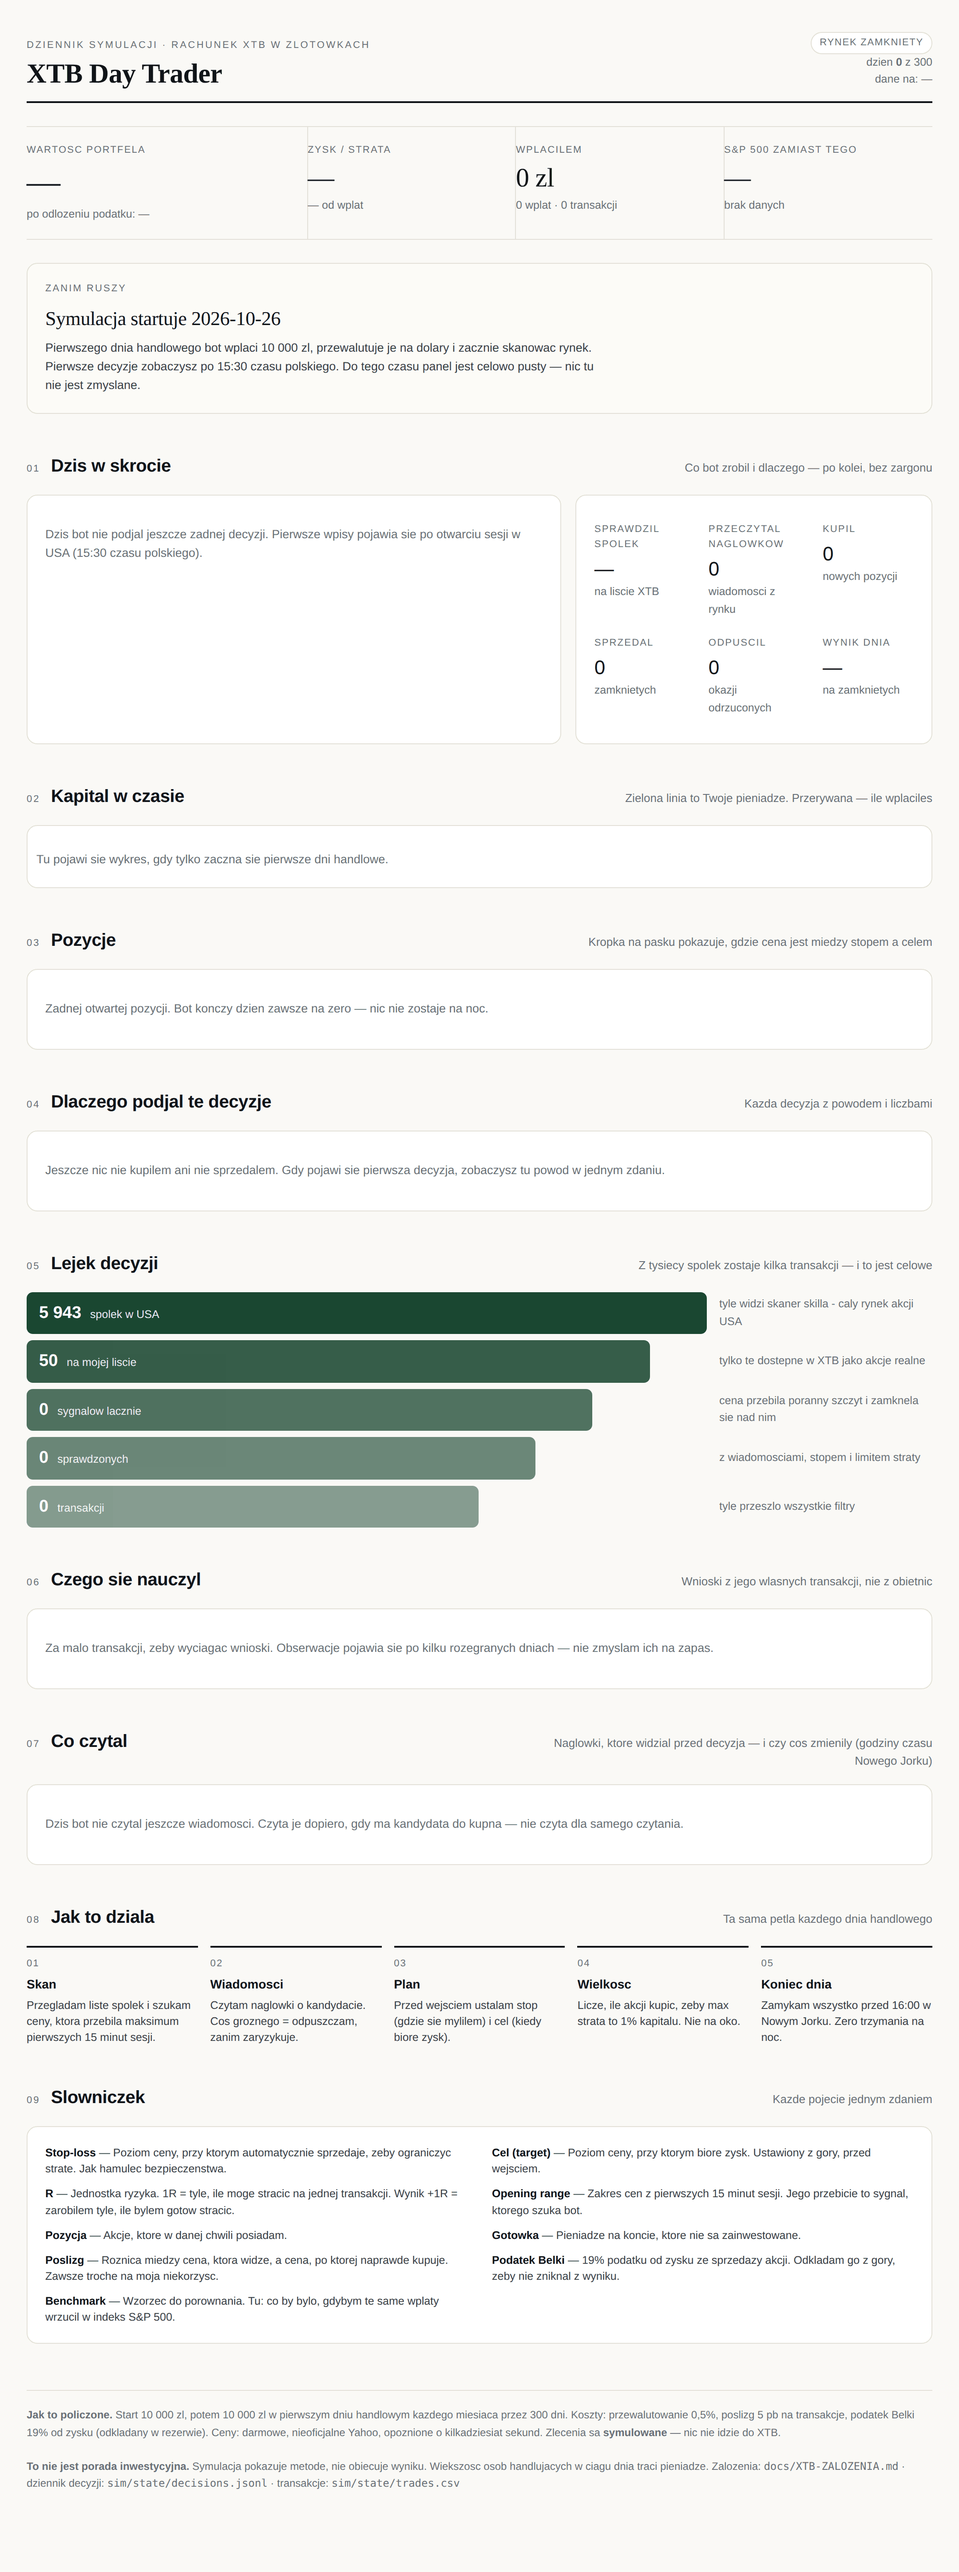
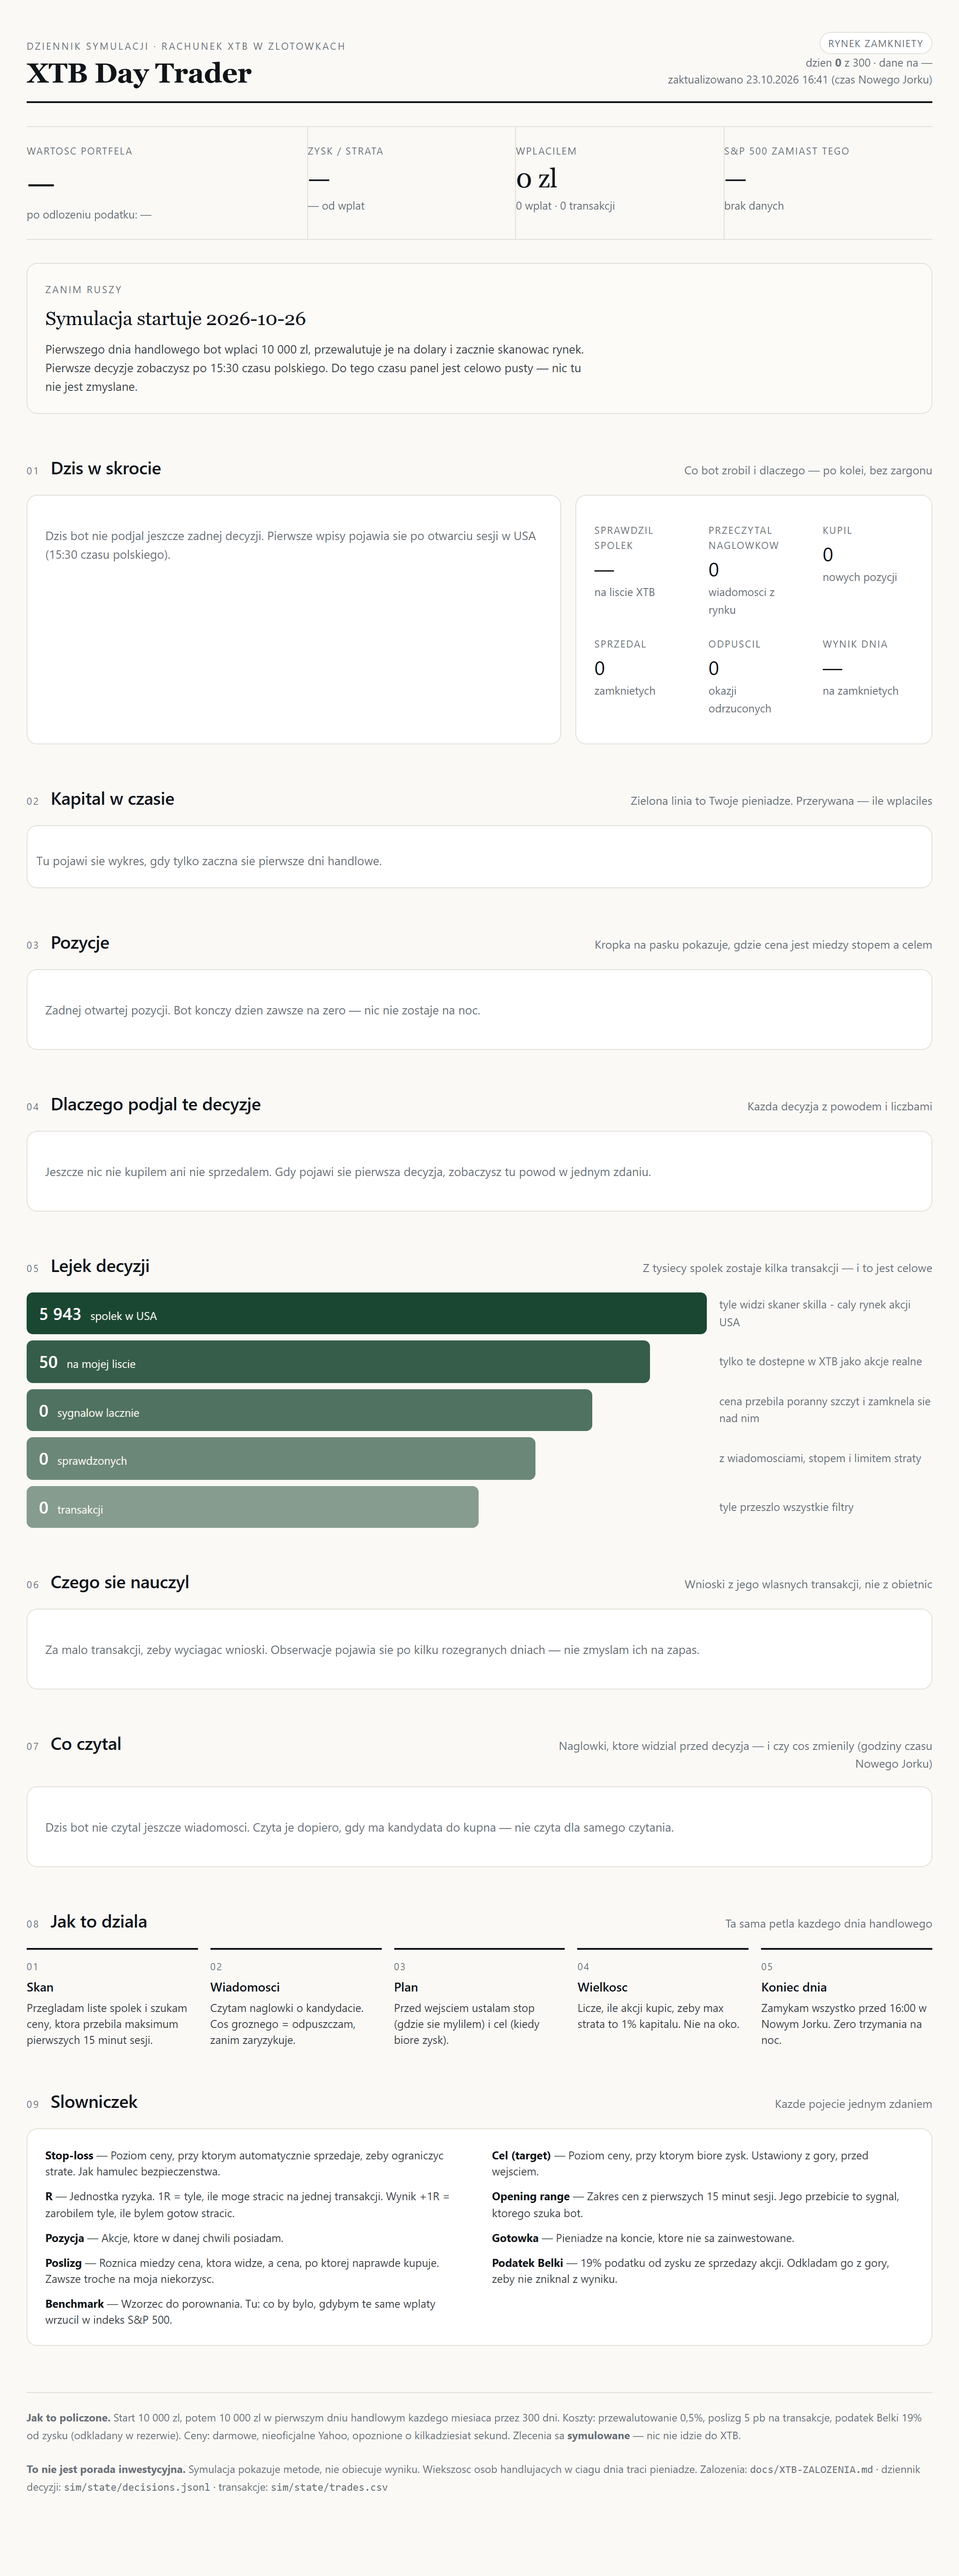
Panel: data ostatniej aktualizacji w naglowku

diff --git a/docs/index.html b/docs/index.html
@@ -158,8 +158,8 @@ footer{margin-top:52px;border-top:1px solid var(--line);padding-top:18px;
   </div>
   <div class="right">
     <span class="pill shut">rynek zamkniety</span><br>
-    dzien <b>0</b> z 300<br>
-    dane na: —
+    dzien <b>0</b> z 300 &middot; dane na —<br>
+    zaktualizowano 23.10.2026 16:41 (czas Nowego Jorku)
   </div>
 </div><div class="kpis">
   <div class="kpi">

diff --git a/sim/dashboard.py b/sim/dashboard.py
@@ -15,10 +15,10 @@ from datetime import datetime
 
 if __package__ in (None, ""):
     sys.path.insert(0, os.path.dirname(os.path.dirname(os.path.abspath(__file__))))
-    from sim import insights, market, news, plain, store, ui
+    from sim import insights, market, news, plain, session as ses, store, ui
     from sim.ui import esc, num, pct, pln, usd
 else:
-    from . import insights, market, news, plain, store, ui
+    from . import insights, market, news, plain, session as ses, store, ui
     from .ui import esc, num, pct, pln, usd
 
 # ------------------------------------------------------------------ style
@@ -205,7 +205,7 @@ def _et_hhmm(iso) -> str:
     """ISO UTC z feedu -> godzina w Nowym Jorku (tak jak reszta panelu)."""
     try:
         from datetime import timezone
-        from . import session as ses
+
         dt = datetime.fromisoformat(str(iso).replace("Z", "+00:00"))
         if dt.tzinfo is None:
             dt = dt.replace(tzinfo=timezone.utc)
@@ -223,18 +223,14 @@ def _price(sym: str) -> float | None:
 
 # ------------------------------------------------------------------ sekcje
 def _masthead(sim: dict, cfg: dict, equity: list[dict]) -> str:
-    now = datetime.now()
-    is_open = False
-    try:
-        from . import session as ses
-        is_open = ses.is_open()
-    except Exception:  # noqa: BLE001
-        pass
+    now = ses.now_ny()
+    is_open = ses.is_open(now)
     day = int(sim.get("day_count") or 0)
     total = int(cfg["simulation"]["days"])
     pill = ('<span class="pill open">rynek otwarty</span>' if is_open
             else '<span class="pill shut">rynek zamkniety</span>')
     last = (_today_row(equity) or {}).get("date") or "—"
+    upd = now.strftime("%d.%m.%Y %H:%M")
     return f'''<div class="mast">
   <div>
     <div class="kicker">Dziennik symulacji &middot; rachunek XTB w zlotowkach</div>
@@ -242,8 +238,8 @@ def _masthead(sim: dict, cfg: dict, equity: list[dict]) -> str:
   </div>
   <div class="right">
     {pill}<br>
-    dzien <b>{day}</b> z {total}<br>
-    dane na: {esc(last)}
+    dzien <b>{day}</b> z {total} &middot; dane na {esc(last[8:10] + "." + last[5:7] if len(str(last)) >= 10 else last)}<br>
+    zaktualizowano {esc(upd)} (czas Nowego Jorku)
   </div>
 </div>'''
 
